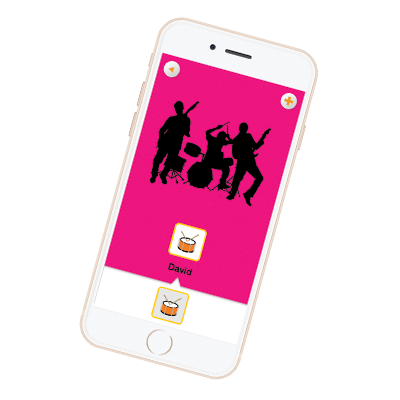
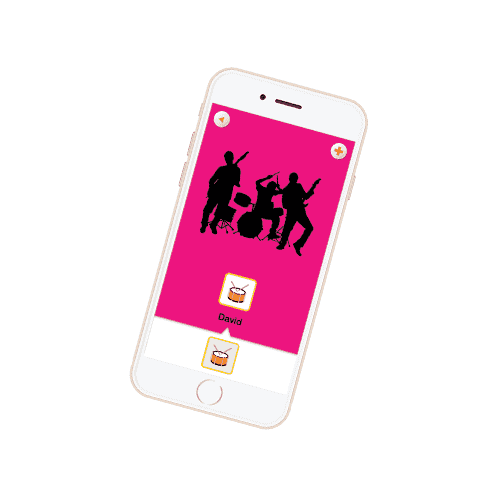
Made more playful, cleaned up colors, rearranged

diff --git a/index.html b/index.html
@@ -69,11 +69,17 @@
 
 
 <div class="how-slide">
+
+<div class="how-wrapper">
 	<div id="how"></div>
 
 	<div class="thirdcolumns">
 
+
+	<a class="rollover-how" href="#">
 		<img src="./assets/band.png" alt="app" class="how-images" />
+		<img src="./assets/band-burst.png" alt="app" class="how-images" />
+	</a>
 
 		<h2>A slap-on wristband</h2>
 			<p>The comfortable silicone no-buckle band easily conforms to any wrist size. With a simple one button design, the device powers up in seconds.</p>
@@ -81,7 +87,10 @@
 
 	<div class="thirdcolumns">
 
+	<a class="rollover-how" href="#">
 		<img src="./assets/app.png" alt="app" class="how-images" />
+		<img src="./assets/app-burst.png" alt="app" class="how-images" />
+	</a>
 
 		<h2>A free app</h2>
 			<p>Using bluetooth, the Moff Band connects to our free iOS app. Tons of sound effect categories to choose from mean a new toy is only a download away.</p>
@@ -89,7 +98,10 @@
 
 		<div class="thirdcolumns">
 
+	<a class="rollover-how" href="#">
 		<img src="./assets/wand.gif" alt="app" class="how-images" />
+		<img src="./assets/wand-burst.gif" alt="app" class="how-images" />
+	</a>
 
 		<h2>A toy everywhere you look</h2>
 			<p>Anything you pick up becomes a sword, a magic wand, a golf club, a motorcycle, and more. Moff Bands play well together; two Bands can connect to the same device. The only limit is your imagination.</p>
@@ -97,6 +109,102 @@
 
 	<div class="clearer"></div>
 
+</div>
+
+<img src="./assets/friends-banner.png" alt="weeee" style="width: 100%;" />
+
+</div>
+
+<div class="friends-slide">
+
+		<div class="quartercolumns">
+			<a href="http://techcrunch.com/2014/03/11/moff/" target="_blank"><h2>&#34;And the award for cutest wearable goes to&#8230; Moff!&#34;</h2>
+				<img src="./assets/techcrunch1.png" class="friend-images" alt="Tech Crunch" /></a>
+		</div>
+
+		<div class="quartercolumns">
+			<a href="http://blog.sfgate.com/techchron/2014/10/31/tech-toy-turns-hands-arms-into-guitars-swords-magic-wands/" target="_blank"><h2>&#34;The Moff Band aims to add a touch of smart phone technology to enhance that child&#39;s imagination.&#34;</h2>
+				
+				<img src="./assets/sfgate1.png" class="friend-images" alt="SFGate" /></a>
+		</div>
+
+		<div class="quartercolumns">
+			<a href="http://www.usatoday.com/story/tech/columnist/talkingtech/2014/03/10/sxsw-buzz--not-the-next-big-thing-but-fun/6236499/" target="_blank"><h2>&#34;Moff was the most practical tech toy we saw [at SXSW].&#34; </h2>
+				<img src="./assets/usatoday1.png" class="friend-images" alt="USA Today" /></a>
+		</div>
+
+		<div class="quartercolumns">
+			<a href="http://gizmodo.com/this-motion-activated-band-turns-your-arm-into-a-sound-1649421277" target="_blank"><h2>&#34;I got to slap one on and give it a go&#8212;and I had a freaking blast.&#34;</h2></a>
+				
+				<img src="./assets/gizmodo1.png" class="friend-images" alt="Gizmodo" />
+		</div>
+
+	<div class="clearer"></div>
+
+		<div class="centercolumn">
+				
+				<a href="http://online.wsj.com/news/articles/SB10001424052702303725404579462382169614354#4" target="_blank">
+					<img src="./assets/wsj.png" class="friend-images" alt="The Wall Street Journal" />
+				</a>
+
+				<a href="http://fortune.com/2014/04/02/japans-tech-startups-bet-on-wearables-in-the-u-s/" target="_blank">
+					<img src="./assets/fortune.png" class="friend-images" alt="Fortune" />
+				</a>
+
+				<a href="https://www.youtube.com/watch?v=cHfQBMfD1FU" target="_blank">
+					<img src="./assets/cnet.png" class="friend-images" alt="CNET News" />
+				</a>
+
+				<a href="http://www.japantimes.co.jp/news/2014/05/11/business/tech/high-tech-japan-jumps-wearable-device-bandwagon/#.VBBYtMKSxWW" target="_blank">
+					<img src="./assets/japantimes.png" class="friend-images" alt="The Japan Times" />
+				</a>
+
+				<a href="http://www.cbsnews.com/news/great-tech-gifts-for-kids-cnet-gift-guide/" target="_blank">
+					<img src="./assets/cbs.png" class="friend-images" alt="CBS News" />
+				</a>
+
+				<a href="http://news.yahoo.com/moff-band-uses-sound-effects-200348690.html" target="_blank">
+					<img src="./assets/yahoo.png" class="friend-images" alt="Yahoo News" />
+				</a>
+		</div>
+
+	<div class="clearer"></div>
+
+</div>
+
+<div class="product-slide">
+
+	<div class="centered-product">
+		<img src="./assets/quarterboxshot3.png" alt="Moff Band" class="product-image" />
+	</div>
+
+
+		<div class="fiddypercentcolumn">
+			<h1>Get a Moff Band today:</h1>
+
+			<ul>
+				<li>Includes one Moff Band, instructions, battery, and a link to the <a href="http://bit.ly/1vfoNPP" target="blank">Moff app on the App Store.</a></li>
+				<li>More than one kid (or fun adult) in your life? Two Moff Bands can sync to a single iOS device.</li>
+				<li>The Moff Band is currently compatible with Apple iPhone 4s/5/5c/5s/6/6Plus; iPod touch (5th gen or later); iPad (4th gen or later), iPad mini, and iPad Air. App requires iOS 7.1 or later. Android compatibility coming soon.</li>
+			</ul>
+
+	</div>
+
+	<div class="product-side-image">
+		<img src="./assets/quarterboxshot3.png" alt="Moff Band" class="product-image"/>
+
+	</div>
+
+	<div class="clearer"></div>
+
+				<div class="product-buybutton">
+
+				<a href="http://amzn.to/1thTJfk" target="_blank">
+
+					<p><strike>MSRP $79.99</strike></p><h3>$54<sup>99</sup></h3><p>via Amazon.com</p></a>
+		</div>
+
+	<div class="clearer"></div>
 </div>
 
 <div class="faq-slide">
@@ -202,100 +310,8 @@
 			<p><a href="https://moff.zendesk.com/hc/en-us/">(Or, if you're looking for techincal support, try here.)</a></p>
 
 		</div>
-</div>
-
 
 <div class="clearer"></div>
-
-<div class="product-slide">
-
-	<div class="centered-product">
-		<img src="./assets/quarterboxshot3.png" alt="Moff Band" class="product-image" />
-	</div>
-
-
-		<div class="fiddypercentcolumn">
-			<h1>Get a Moff Band today:</h1>
-
-			<ul>
-				<li>Includes one Moff Band, instructions, battery, and a link to the <a href="http://bit.ly/1vfoNPP" target="blank">Moff app on the App Store.</a></li>
-				<li>More than one kid (or fun adult) in your life? Two Moff Bands can sync to a single iOS device.</li>
-				<li>The Moff Band is currently compatible with Apple iPhone 4s/5/5c/5s/6/6Plus; iPod touch (5th gen or later); iPad (4th gen or later), iPad mini, and iPad Air. App requires iOS 7.1 or later. Android compatibility coming soon.</li>
-			</ul>
-
-	</div>
-
-	<div class="product-side-image">
-		<img src="./assets/quarterboxshot3.png" alt="Moff Band" class="product-image"/>
-
-	</div>
-
-	<div class="clearer"></div>
-
-				<div class="product-buybutton">
-
-				<a href="http://amzn.to/1thTJfk" target="_blank">
-
-					<h3>$54<sup>99</sup></h3><p>via Amazon.com</p></a>
-		</div>
-
-	<div class="clearer"></div>
-</div>
-
-<div class="friends-slide">
-
-		<div class="quartercolumns">
-			<a href="http://techcrunch.com/2014/03/11/moff/" target="_blank"><h2>&#34;And the award for cutest wearable goes to&#8230; Moff!&#34;</h2>
-				<img src="./assets/techcrunch1.png" class="friend-images" alt="Tech Crunch" /></a>
-		</div>
-
-		<div class="quartercolumns">
-			<a href="http://blog.sfgate.com/techchron/2014/10/31/tech-toy-turns-hands-arms-into-guitars-swords-magic-wands/" target="_blank"><h2>&#34;The Moff Band aims to add a touch of smart phone technology to enhance that child&#39;s imagination.&#34;</h2>
-				
-				<img src="./assets/sfgate1.png" class="friend-images" alt="SFGate" /></a>
-		</div>
-
-		<div class="quartercolumns">
-			<a href="http://www.usatoday.com/story/tech/columnist/talkingtech/2014/03/10/sxsw-buzz--not-the-next-big-thing-but-fun/6236499/" target="_blank"><h2>&#34;Moff was the most practical tech toy we saw [at SXSW].&#34; </h2>
-				<img src="./assets/usatoday1.png" class="friend-images" alt="USA Today" /></a>
-		</div>
-
-		<div class="quartercolumns">
-			<a href="http://gizmodo.com/this-motion-activated-band-turns-your-arm-into-a-sound-1649421277" target="_blank"><h2>&#34;I got to slap one on and give it a go&#8212;and I had a freaking blast.&#34;</h2></a>
-				
-				<img src="./assets/gizmodo1.png" class="friend-images" alt="Gizmodo" />
-		</div>
-
-	<div class="clearer"></div>
-
-		<div class="centercolumn">
-				
-				<a href="http://online.wsj.com/news/articles/SB10001424052702303725404579462382169614354#4" target="_blank">
-					<img src="./assets/wsj.png" class="friend-images" alt="The Wall Street Journal" />
-				</a>
-
-				<a href="http://fortune.com/2014/04/02/japans-tech-startups-bet-on-wearables-in-the-u-s/" target="_blank">
-					<img src="./assets/fortune.png" class="friend-images" alt="Fortune" />
-				</a>
-
-				<a href="https://www.youtube.com/watch?v=cHfQBMfD1FU" target="_blank">
-					<img src="./assets/cnet.png" class="friend-images" alt="CNET News" />
-				</a>
-
-				<a href="http://www.japantimes.co.jp/news/2014/05/11/business/tech/high-tech-japan-jumps-wearable-device-bandwagon/#.VBBYtMKSxWW" target="_blank">
-					<img src="./assets/japantimes.png" class="friend-images" alt="The Japan Times" />
-				</a>
-
-				<a href="http://www.cbsnews.com/news/great-tech-gifts-for-kids-cnet-gift-guide/" target="_blank">
-					<img src="./assets/cbs.png" class="friend-images" alt="CBS News" />
-				</a>
-
-				<a href="http://news.yahoo.com/moff-band-uses-sound-effects-200348690.html" target="_blank">
-					<img src="./assets/yahoo.png" class="friend-images" alt="Yahoo News" />
-				</a>
-		</div>
-
-	<div class="clearer"></div>
 
 </div>
 

diff --git a/css/style.css b/css/style.css
@@ -118,8 +118,11 @@ video {
 }
 
 .how-slide {
-  background-color: #449d44;
+  background-color: #EA5404;
   background-size: cover;
+}
+
+.how-wrapper {
   padding: 5% 5% 5% 5%;
 }
 
@@ -127,6 +130,19 @@ video {
 	width: 100%;
 	padding-bottom: .5em;
 }
+
+.rollover-how img:last-child {
+	display:none
+}
+
+.rollover-how:hover img:first-child {
+	display:none
+}
+
+.rollover-how:hover img:last-child {
+	display:inline-block
+}
+
 
 .clearer {
 	clear: both;
@@ -268,16 +284,17 @@ filter: progid:DXImageTransform.Microsoft.gradient( startColorstr='#ffffff', end
 	border-radius: 10px;
 	padding: 8px;
 	
-	background: #a2005f; /* Old browsers */
+	background: #2c66a5; /* Old browsers */
 	/* IE9 SVG, needs conditional override of 'filter' to 'none' */
[1 lines of base64/hex data omitted]
-	background: -moz-linear-gradient(top,  #a2005f 2%, #66003b 59%, #490029 100%); /* FF3.6+ */
-	background: -webkit-gradient(linear, left top, left bottom, color-stop(2%,#a2005f), color-stop(59%,#66003b), color-stop(100%,#490029)); /* Chrome,Safari4+ */
-	background: -webkit-linear-gradient(top,  #a2005f 2%,#66003b 59%,#490029 100%); /* Chrome10+,Safari5.1+ */
-	background: -o-linear-gradient(top,  #a2005f 2%,#66003b 59%,#490029 100%); /* Opera 11.10+ */
-	background: -ms-linear-gradient(top,  #a2005f 2%,#66003b 59%,#490029 100%); /* IE10+ */
-	background: linear-gradient(to bottom,  #a2005f 2%,#66003b 59%,#490029 100%); /* W3C */
-	filter: progid:DXImageTransform.Microsoft.gradient( startColorstr='#a2005f', endColorstr='#490029',GradientType=0 ); /* IE6-8 */
[1 lines of base64/hex data omitted]
+	background: -moz-linear-gradient(top,  #2c66a5 0%, #093e7a 70%, #05305f 100%); /* FF3.6+ */
+	background: -webkit-gradient(linear, left top, left bottom, color-stop(0%,#2c66a5), color-stop(70%,#093e7a), color-stop(100%,#05305f)); /* Chrome,Safari4+ */
+	background: -webkit-linear-gradient(top,  #2c66a5 0%,#093e7a 70%,#05305f 100%); /* Chrome10+,Safari5.1+ */
+	background: -o-linear-gradient(top,  #2c66a5 0%,#093e7a 70%,#05305f 100%); /* Opera 11.10+ */
+	background: -ms-linear-gradient(top,  #2c66a5 0%,#093e7a 70%,#05305f 100%); /* IE10+ */
+	background: linear-gradient(to bottom,  #2c66a5 0%,#093e7a 70%,#05305f 100%); /* W3C */
+	filter: progid:DXImageTransform.Microsoft.gradient( startColorstr='#2c66a5', endColorstr='#05305f',GradientType=0 ); /* IE6-8 */
+
 }
 
 .product-buybutton a {
@@ -299,7 +316,7 @@ sup {
 /* FRIENDS SECTION */
 
 .friends-slide {
-  background-color: #449d44;
+  background-color: #039B6D;
   background-size: cover;
   padding: 5% 5% 5% 6%;
 }
@@ -350,7 +367,7 @@ sup {
 /* FOOTER SECTION */
 
 .footer-slide {
-	background-color: #354935;
+	background-color: #007B56;
   	background-size: cover;
   	padding: 5% 5% 5% 6%;
 }
@@ -403,7 +420,6 @@ sup {
 /* FLOATING BUY BUTTON */
 
 #buybutton {
-  border: 2px solid #fff;
   color: #ea5404;
   border-radius: 10px;
   font-weight: 300;
@@ -418,16 +434,19 @@ sup {
   -webkit-box-shadow: 6px 6px 50px -4px rgba(0,0,0,0.76);
   -moz-box-shadow: 6px 6px 50px -4px rgba(0,0,0,0.76);
   box-shadow: 6px 6px 50px -4px rgba(0,0,0,0.76);
-background: #a2005f; /* Old browsers */
-/* IE9 SVG, needs conditional override of 'filter' to 'none' */
[1 lines of base64/hex data omitted]
-background: -moz-linear-gradient(top,  #a2005f 2%, #66003b 59%, #490029 100%); /* FF3.6+ */
-background: -webkit-gradient(linear, left top, left bottom, color-stop(2%,#a2005f), color-stop(59%,#66003b), color-stop(100%,#490029)); /* Chrome,Safari4+ */
-background: -webkit-linear-gradient(top,  #a2005f 2%,#66003b 59%,#490029 100%); /* Chrome10+,Safari5.1+ */
-background: -o-linear-gradient(top,  #a2005f 2%,#66003b 59%,#490029 100%); /* Opera 11.10+ */
-background: -ms-linear-gradient(top,  #a2005f 2%,#66003b 59%,#490029 100%); /* IE10+ */
-background: linear-gradient(to bottom,  #a2005f 2%,#66003b 59%,#490029 100%); /* W3C */
-filter: progid:DXImageTransform.Microsoft.gradient( startColorstr='#a2005f', endColorstr='#490029',GradientType=0 ); /* IE6-8 */
+
+	background: #2c66a5; /* Old browsers */
+	/* IE9 SVG, needs conditional override of 'filter' to 'none' */
[1 lines of base64/hex data omitted]
+	background: -moz-linear-gradient(top,  #2c66a5 0%, #093e7a 70%, #05305f 100%); /* FF3.6+ */
+	background: -webkit-gradient(linear, left top, left bottom, color-stop(0%,#2c66a5), color-stop(70%,#093e7a), color-stop(100%,#05305f)); /* Chrome,Safari4+ */
+	background: -webkit-linear-gradient(top,  #2c66a5 0%,#093e7a 70%,#05305f 100%); /* Chrome10+,Safari5.1+ */
+	background: -o-linear-gradient(top,  #2c66a5 0%,#093e7a 70%,#05305f 100%); /* Opera 11.10+ */
+	background: -ms-linear-gradient(top,  #2c66a5 0%,#093e7a 70%,#05305f 100%); /* IE10+ */
+	background: linear-gradient(to bottom,  #2c66a5 0%,#093e7a 70%,#05305f 100%); /* W3C */
+	filter: progid:DXImageTransform.Microsoft.gradient( startColorstr='#2c66a5', endColorstr='#05305f',GradientType=0 ); /* IE6-8 */
+
+
 }
 
 #buybutton a {
